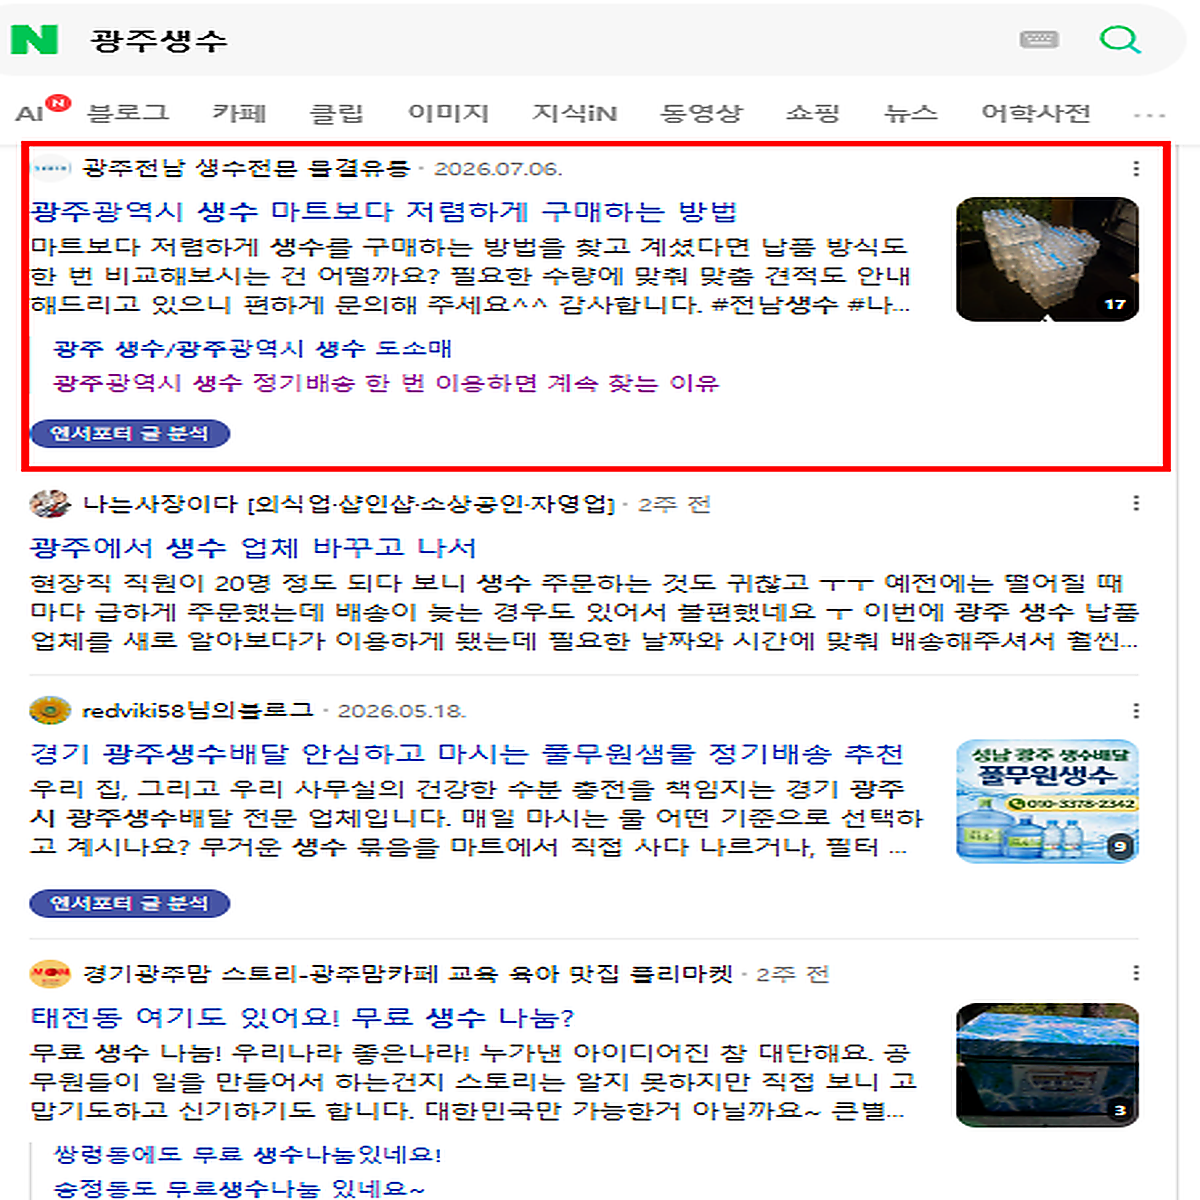
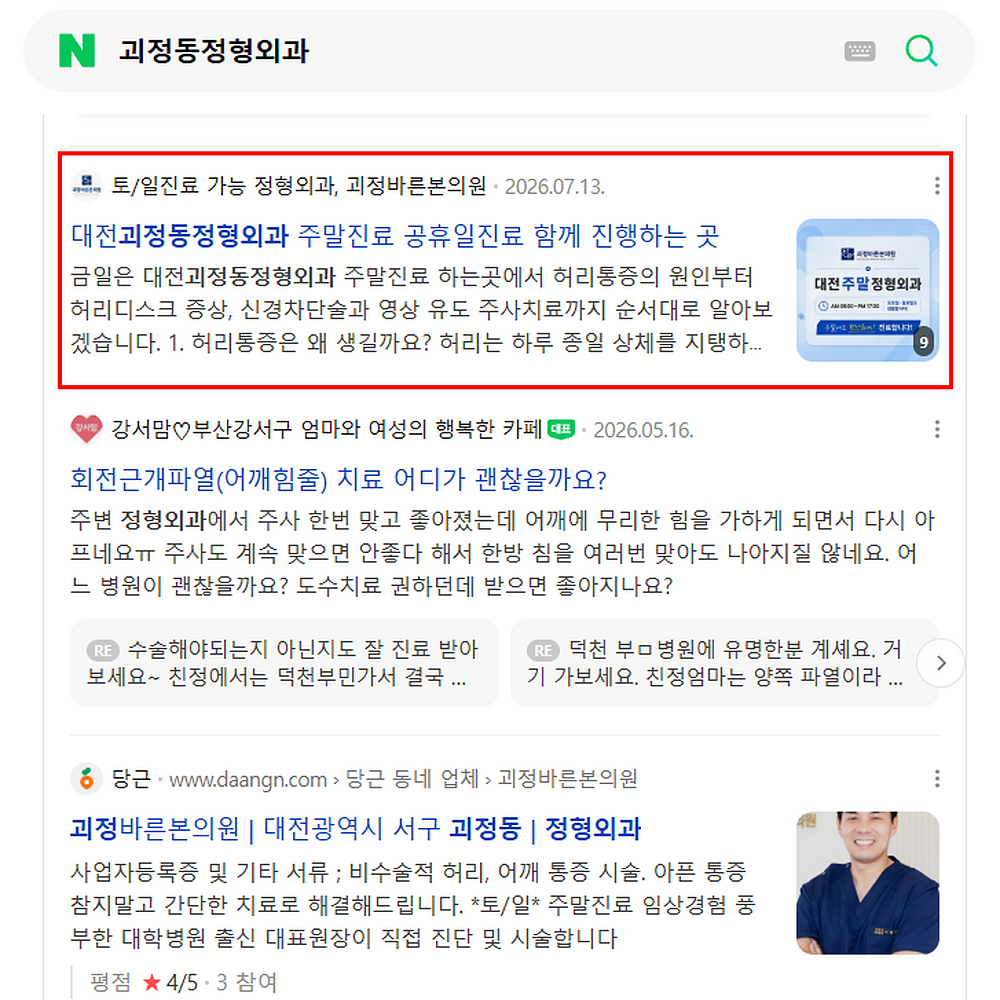
Add files via upload

diff --git a/index.html b/index.html
@@ -3,18 +3,18 @@
 <head>
 <meta charset="UTF-8">
 <meta name="viewport" content="width=device-width, initial-scale=1.0">
-<title>대전온라인마케팅 | 세종 대구 바이럴마케팅·블로그마케팅</title>
+<title>대전온라인마케팅 | 세종 바이럴마케팅·블로그마케팅</title>
 <meta name="description" content="대전마케팅 1인 프리랜서가 대전바이럴마케팅, 대전온라인마케팅, 대전블로그마케팅과 인스타·카페 운영, 홈페이지 제작 및 코드 최적화를 직접 진행합니다.">
 <meta name="keywords" content="대전마케팅,대전바이럴마케팅,대전온라인마케팅,대전블로그마케팅,블로그마케팅,인스타마케팅,카페마케팅,코드최적화,홈페이지제작,마케팅천재">
 <meta name="author" content="마케팅천재">
-<meta name="application-name" content="대전온라인마케팅 | 세종 대구 바이럴마케팅·블로그마케팅">
+<meta name="application-name" content="대전온라인마케팅 | 세종 바이럴마케팅·블로그마케팅">
 <link rel="canonical" href="https://marketing-genius.wngkgus.workers.dev/">
 <link rel="sitemap" type="application/xml" href="https://marketing-genius.wngkgus.workers.dev/sitemap.xml">
 <meta property="og:type" content="website">
-<meta property="og:title" content="대전온라인마케팅 | 세종 대구 바이럴마케팅·블로그마케팅">
+<meta property="og:title" content="대전온라인마케팅 | 세종 바이럴마케팅·블로그마케팅">
 <meta property="og:description" content="대전바이럴마케팅, 대전온라인마케팅, 대전블로그마케팅을 1인 프리랜서가 직접 기획하고 운영합니다.">
 <meta property="og:url" content="https://marketing-genius.wngkgus.workers.dev/">
-<meta property="og:site_name" content="대전온라인마케팅 | 세종 대구 바이럴마케팅·블로그마케팅">
+<meta property="og:site_name" content="대전온라인마케팅 | 세종 바이럴마케팅·블로그마케팅">
 <meta property="og:locale" content="ko_KR">
 <link rel="icon" href="favicon.ico" sizes="any">
 <link rel="icon" type="image/svg+xml" href="favicon.svg">
@@ -37,7 +37,7 @@
   "url": "https://marketing-genius.wngkgus.workers.dev/",
   "logo": "https://marketing-genius.wngkgus.workers.dev/favicon.png",
   "telephone": "+82-10-2719-5334",
-  "areaServed": ["대전광역시", "세종특별자치시", "대구광역시", "충청남도", "충청북도"],
+  "areaServed": ["대전광역시", "세종특별자치시", "충청남도", "충청북도"],
   "description": "대전마케팅을 중심으로 대전바이럴마케팅, 대전온라인마케팅, 대전블로그마케팅, SNS 운영과 홈페이지 코드 최적화를 직접 진행하는 1인 프리랜서"
 }
 </script>
@@ -59,7 +59,7 @@
 {
   "@context": "https://schema.org",
   "@type": "WebSite",
-  "name": "대전온라인마케팅 | 세종 대구 바이럴마케팅·블로그마케팅",
+  "name": "대전온라인마케팅 | 세종 바이럴마케팅·블로그마케팅",
   "url": "https://marketing-genius.wngkgus.workers.dev/"
 }
 </script>
@@ -945,7 +945,7 @@
         <a class="work-card reveal" href="blog.html" aria-label="블로그 마케팅 작업 상세페이지로 이동">
           <div class="work-card__gallery is-quad">
             <figure><img src="assets/thumb-blog-1.jpg" alt="네이버 블로그 통합검색 노출 작업사진" loading="lazy"></figure>
-            <figure><img src="assets/thumb-blog-2.jpg" alt="네이버 블로그 검색 노출 작업사진" loading="lazy"></figure>
+            <figure><img src="assets/thumb-blog-2.jpg" alt="정형외과 블로그 검색 노출 작업사진" loading="lazy"></figure>
             <figure><img src="assets/thumb-blog-3.jpg" alt="브랜딩 블로그 운영 작업사진" loading="lazy"></figure>
             <figure><img src="assets/thumb-blog-4.jpg" alt="홈페이지형 블로그 제작 작업사진" loading="lazy"></figure>
           </div>
@@ -1062,7 +1062,7 @@
           <polyline points="14,150 60,100 110,120 160,60 210,80 260,30 306,55" fill="none" stroke="#3FC7E0" stroke-width="2.4" stroke-linecap="round" stroke-linejoin="round"/>
           <circle cx="306" cy="55" r="5" fill="#3FC7E0"/>
         </svg>
-        <p>대전 · 세종 · 대구 검색 트렌드와 순위 변화를 데이터로 추적합니다.</p>
+        <p>대전 · 세종 검색 트렌드와 순위 변화를 데이터로 추적합니다.</p>
       </div>
       <div>
         <div class="section-head reveal">
@@ -1102,7 +1102,7 @@
     <div class="container local-inner">
       <div class="reveal">
         <span class="eyebrow">LOCAL FOCUS</span>
-        <h2>대전 · 세종 · 대구,<br>지역 광고는 마케팅천재</h2>
+        <h2>대전 · 세종,<br>지역 광고는 마케팅천재</h2>
         <p class="lead">대전마케팅 1인 프리랜서가 대전바이럴마케팅, 대전온라인마케팅, 대전블로그마케팅을 업종과 목표에 맞춰 직접 진행합니다.</p>
         <div class="chip-grid">
           <span class="chip">대전마케팅</span>
@@ -1158,7 +1158,7 @@
         </details>
         <details class="faq-item reveal">
           <summary>대전 지역이 아니어도 진행할 수 있나요?<span class="plus"></span></summary>
-          <div class="faq-a">대전·세종·대구를 중심으로 운영하며, 그 외 지역은 별도 상담을 통해 진행 가능 여부를 안내해 드립니다.</div>
+          <div class="faq-a">대전·세종을 중심으로 운영하며, 그 외 지역은 별도 상담을 통해 진행 가능 여부를 안내해 드립니다.</div>
         </details>
       </div>
     </div>
@@ -1189,7 +1189,7 @@
               <li><b>상담시간</b> 평일 09:00 – 18:00 (주말·공휴일 휴무)</li>
               <li><b>카카오톡</b> 26hoon</li>
               <li><b>서비스</b> 블로그 · 파워링크 · 인스타그램 · 스레드 · 홈페이지 · SEO</li>
-              <li><b>지역</b> 대전 · 세종 · 대구 중심 운영</li>
+              <li><b>지역</b> 대전 · 세종 중심 운영</li>
             </ul>
           </div>
           <div class="contact-actions">
@@ -1230,7 +1230,7 @@
     <p class="footer-keywords">대전마케팅 · 대전바이럴마케팅 · 대전온라인마케팅 · 대전블로그마케팅 — 1인 프리랜서가 상담부터 실행까지 직접 진행합니다.</p>
     <div class="footer-bottom">
       <span>© 2026 마케팅천재. All rights reserved.</span>
-      <span>대전광역시 중심 · 세종 · 대구 서비스</span>
+      <span>대전광역시 중심 · 세종 서비스</span>
     </div>
   </div>
 </footer>

diff --git a/blog.html b/blog.html
@@ -53,7 +53,7 @@
   <header><div class="container head"><a class="brand" href="index.html">마케팅천재</a><nav aria-label="세부 작업"><a href="blog.html" aria-current="page">블로그</a><a href="instagram.html">인스타&스레드</a><a href="cafe.html">카페</a><a href="code-seo.html">코드최적화</a><a href="homepage.html">홈페이지</a></nav></div></header>
   <main>
     <section class="hero"><div class="container hero-copy"><span class="eyebrow">블로그 · 1인 프리랜서 직접 진행</span><h1>검색으로 발견되는 블로그 콘텐츠</h1><p class="lead">대전블로그마케팅은 글을 많이 올리는 것보다 고객이 실제로 찾는 주제와 검색 흐름을 이해하는 것에서 시작합니다.</p></div></section>
-    <section class="portfolio"><div class="container"><div class="portfolio-head"><h2>실제 작업 포트폴리오</h2></div><div class="slider" data-slider><div class="slider-viewport"><div class="slider-track"><div class="slider-slide" style="--slide-bg:url(assets/blog-search-1.png)"><figure><img src="assets/blog-search-1.png" alt="네이버 블로그 통합검색 노출 작업사진 1" loading="lazy"></figure></div><div class="slider-slide" style="--slide-bg:url(assets/blog-search-2.png)"><figure><img src="assets/blog-search-2.png" alt="네이버 블로그 통합검색 노출 작업사진 2" loading="lazy"></figure></div><div class="slider-slide" style="--slide-bg:url(assets/blog-search-3.png)"><figure><img src="assets/blog-search-3.png" alt="네이버 블로그 통합검색 노출 작업사진 3" loading="lazy"></figure></div><div class="slider-slide" style="--slide-bg:url(assets/blog-branding.png)"><figure><img src="assets/blog-branding.png" alt="브랜딩 블로그 운영 작업사진" loading="lazy"></figure></div><div class="slider-slide" style="--slide-bg:url(assets/blog-home-1.jpg)"><figure><img src="assets/blog-home-1.jpg" alt="홈페이지형 블로그 제작 작업사진 1" loading="lazy"></figure></div><div class="slider-slide" style="--slide-bg:url(assets/blog-home-2.png)"><figure><img src="assets/blog-home-2.png" alt="홈페이지형 블로그 제작 작업사진 2" loading="lazy"></figure></div></div></div><button class="slider-button slider-prev" type="button" aria-label="이전 사진">‹</button><button class="slider-button slider-next" type="button" aria-label="다음 사진">›</button><div class="slider-footer"><div class="slider-dots"><button class="slider-dot is-active" type="button" aria-label="1번 사진"></button><button class="slider-dot" type="button" aria-label="2번 사진"></button><button class="slider-dot" type="button" aria-label="3번 사진"></button><button class="slider-dot" type="button" aria-label="4번 사진"></button><button class="slider-dot" type="button" aria-label="5번 사진"></button><button class="slider-dot" type="button" aria-label="6번 사진"></button></div><span class="slider-count">1 / 6</span></div></div></div></section>
+    <section class="portfolio"><div class="container"><div class="portfolio-head"><h2>실제 작업 포트폴리오</h2></div><div class="slider" data-slider><div class="slider-viewport"><div class="slider-track"><div class="slider-slide" style="--slide-bg:url(assets/blog-search-1.png)"><figure><img src="assets/blog-search-1.png" alt="네이버 블로그 통합검색 노출 작업사진 1" loading="lazy"></figure></div><div class="slider-slide" style="--slide-bg:url(assets/blog-search-2.png)"><figure><img src="assets/blog-search-2.png" alt="정형외과 블로그 검색 노출 작업사진 2" loading="lazy"></figure></div><div class="slider-slide" style="--slide-bg:url(assets/blog-search-3.png)"><figure><img src="assets/blog-search-3.png" alt="네이버 블로그 통합검색 노출 작업사진 3" loading="lazy"></figure></div><div class="slider-slide" style="--slide-bg:url(assets/blog-branding.png)"><figure><img src="assets/blog-branding.png" alt="브랜딩 블로그 운영 작업사진" loading="lazy"></figure></div><div class="slider-slide" style="--slide-bg:url(assets/blog-home-1.jpg)"><figure><img src="assets/blog-home-1.jpg" alt="홈페이지형 블로그 제작 작업사진 1" loading="lazy"></figure></div><div class="slider-slide" style="--slide-bg:url(assets/blog-home-2.png)"><figure><img src="assets/blog-home-2.png" alt="홈페이지형 블로그 제작 작업사진 2" loading="lazy"></figure></div></div></div><button class="slider-button slider-prev" type="button" aria-label="이전 사진">‹</button><button class="slider-button slider-next" type="button" aria-label="다음 사진">›</button><div class="slider-footer"><div class="slider-dots"><button class="slider-dot is-active" type="button" aria-label="1번 사진"></button><button class="slider-dot" type="button" aria-label="2번 사진"></button><button class="slider-dot" type="button" aria-label="3번 사진"></button><button class="slider-dot" type="button" aria-label="4번 사진"></button><button class="slider-dot" type="button" aria-label="5번 사진"></button><button class="slider-dot" type="button" aria-label="6번 사진"></button></div><span class="slider-count">1 / 6</span></div></div></div></section>
     <section class="content"><div class="container"><h2>블로그 작업의 핵심 장점</h2><div class="grid"><article class="card"><b>검색 의도 중심 기획</b><p>업종과 지역, 고객 질문을 분석해 정보 탐색부터 상담까지 자연스럽게 이어지는 주제를 설계합니다.</p></article><article class="card"><b>직접 작성과 구성</b><p>제목, 본문, 사진 배치와 소제목을 한 흐름으로 구성해 읽기 편하면서도 핵심이 분명한 콘텐츠를 만듭니다.</p></article><article class="card"><b>꾸준한 운영 관리</b><p>발행 일정과 누적 콘텐츠를 점검하며 블로그의 전문성과 브랜드 신뢰가 함께 쌓이도록 관리합니다.</p></article></div></div></section>
     <section class="next"><div class="container"><h2>다른 작업 페이지 둘러보기</h2><div class="next-grid"><a href="blog.html" aria-current="page">블로그</a><a href="instagram.html">인스타&스레드</a><a href="cafe.html">카페</a><a href="code-seo.html">코드최적화</a><a href="homepage.html">홈페이지</a></div></div></section>
     <section class="cta"><div class="container"><h2>목표에 맞는 방향부터 상담하세요</h2><p>상담부터 실행까지 한 사람이 직접 확인하고 진행합니다.</p><a class="button" href="tel:010-2719-5334">전화 상담 010-2719-5334</a></div></section>
